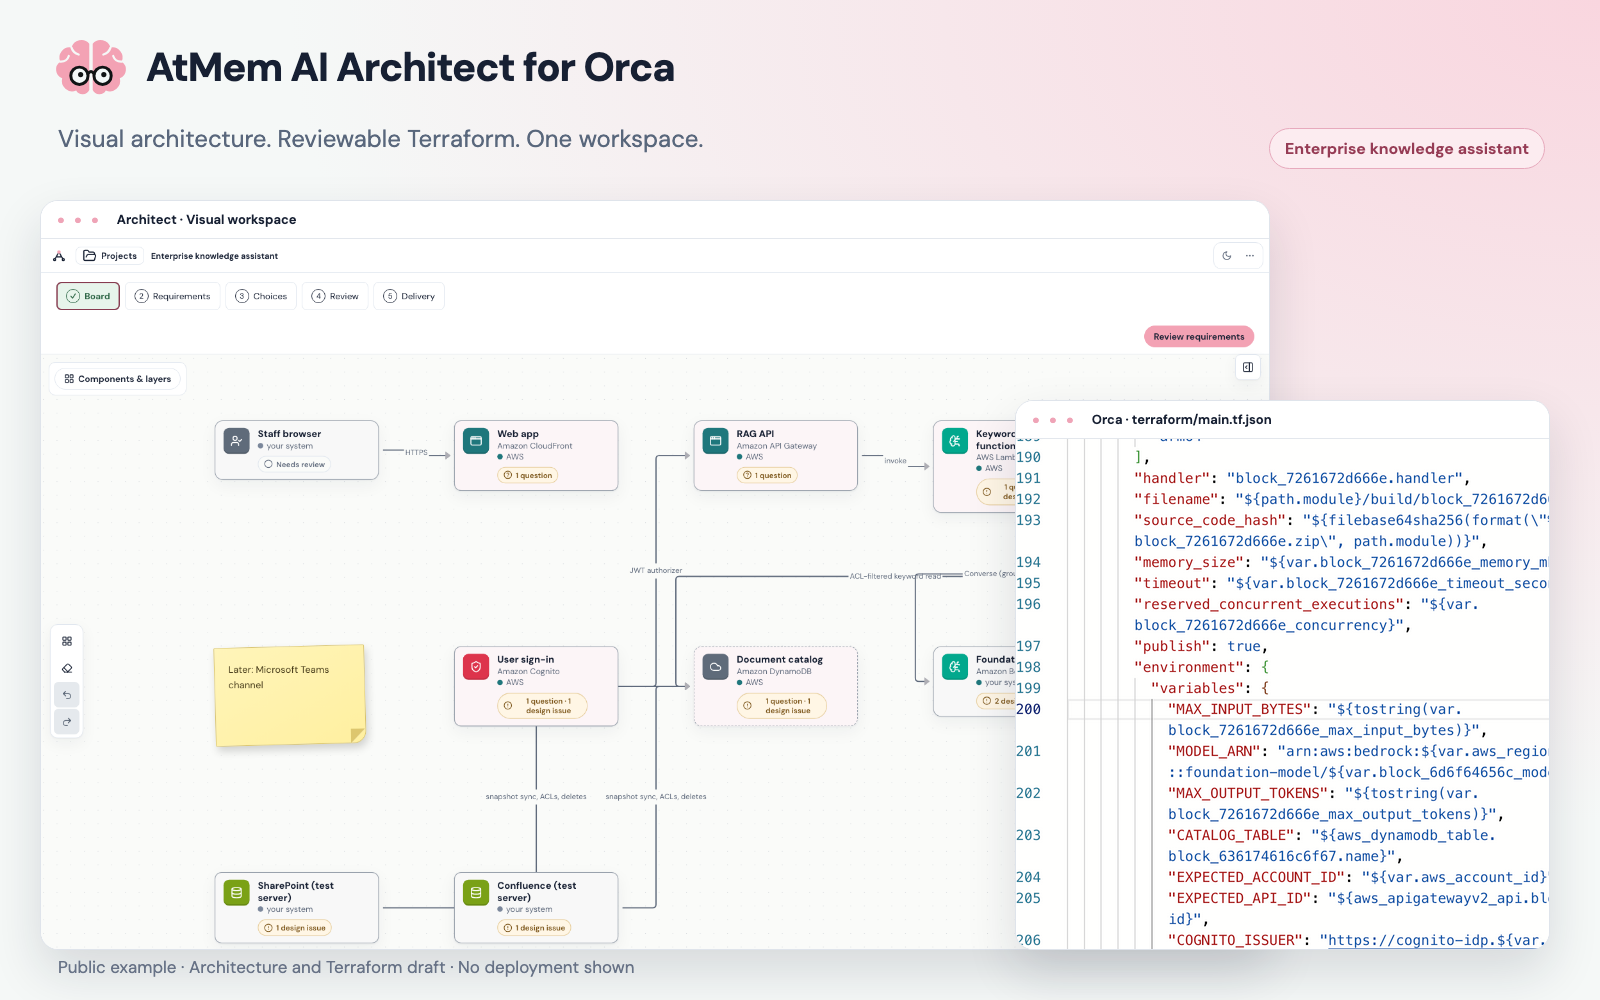
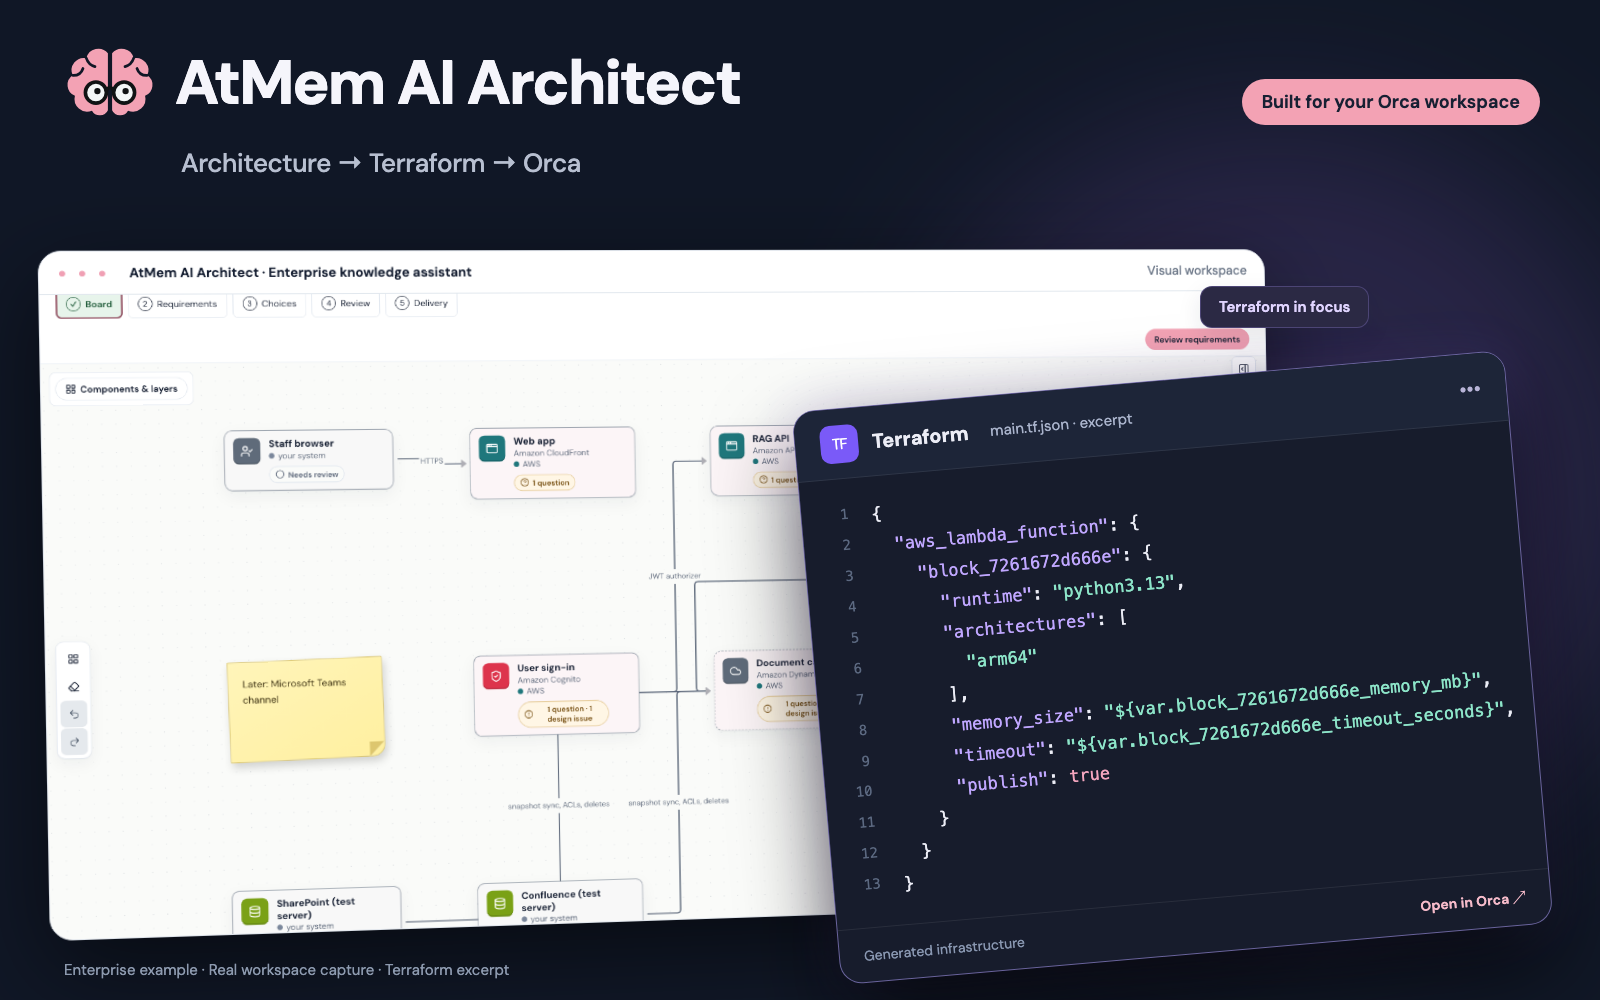
Publish owner-approved Midnight cover

diff --git a/evidence/validation.md b/evidence/validation.md
@@ -45,3 +45,8 @@ The public directory previously had no manifest cover/screenshots. Added a1600×
 Captured the actual installed Architect0.2.1 UI, its generated Terraform JSON in Orca's editor, and the native plugin panel with the public receiving folder. The cover/gallery use framed crops of these real captures. Private workspace navigation and local account paths are excluded. Images explicitly describe a draft and do not claim cloud deployment or project acceptance.
 
 Cover and gallery inspected visually; each is within the installed Orca manifest's image dimensions/byte bounds. The README now leads with the workspace and links the Terraform detail, while retaining the video. No executable behavior, npm pin, capabilities or required Orca version changes.
+
+
+## 0.1.5 approved Midnight cover
+
+The owner reviewed three local previews and explicitly selected Midnight. The published cover is byte-identical to approved option2:1600×1000, dark background, AtMem brain/title, actual public enterprise workspace capture and a floating syntax-highlighted excerpt from its generated Terraform JSON. The excerpt is labeled; it is an illustration of actual source, not a claimed screenshot of an Orca code editor or a validation result. Existing real screenshot gallery remains. No runtime, capabilities, npm pin or execution behavior changes.

diff --git a/README.md b/README.md
@@ -2,7 +2,7 @@
 
 Open AtMem AI Architect’s visual workspace inside Orca. Design applications, review requirements and inspect Terraform beside your code.
 
-![AtMem AI Architect workspace and Terraform in Orca](assets/workspace-cover.png)
+![AtMem AI Architect Midnight cover with floating Terraform](assets/workspace-cover.png)
 
 [Explore the workspace](assets/architect-workspace.png) · [See Terraform in Orca](assets/terraform-orca.png)
 
@@ -19,7 +19,7 @@ Select a project, open Architect, send the design handoff to Orca, and inspect i
 Requires Orca 1.4.257+, Node.js 22+, and Orca CLI on PATH.
 
 ```sh
-orca plugin install aetna000/atmem-ai-architect-orca@v0.1.4 --json
+orca plugin install aetna000/atmem-ai-architect-orca@v0.1.5 --json
 ```
 
 Orca prints the exact permissions and approval command. Review those before approving.

diff --git a/docs/plan.md b/docs/plan.md
@@ -34,3 +34,6 @@ Qualify Windows/Linux, support a future independently released Architect runtime
 
 
 0.1.4 owner request: show the actual Architect workspace, a complex public example and Terraform/Orca in the plugin directory. Register a branded cover and screenshot gallery in the manifest, not only the README. Use public enterprise-connectors evidence and preserve all visible draft/review limitations; no private project capture or generated-image imitation of product UI.
+
+
+0.1.5: Owner reviewed three unpublished concepts and selected Midnight. Publish the exact approved image as the cover, retaining the workspace/Terraform screenshot gallery and existing runtime/capabilities.
